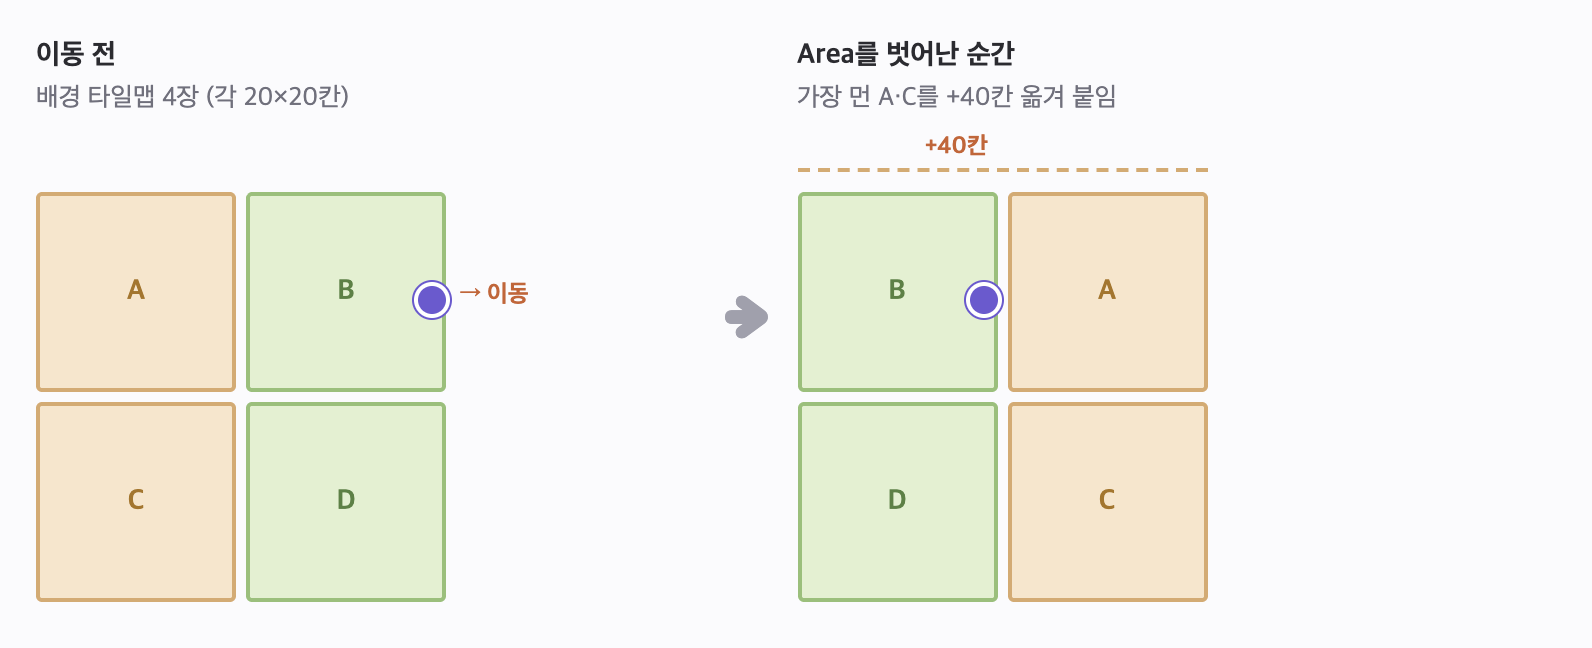
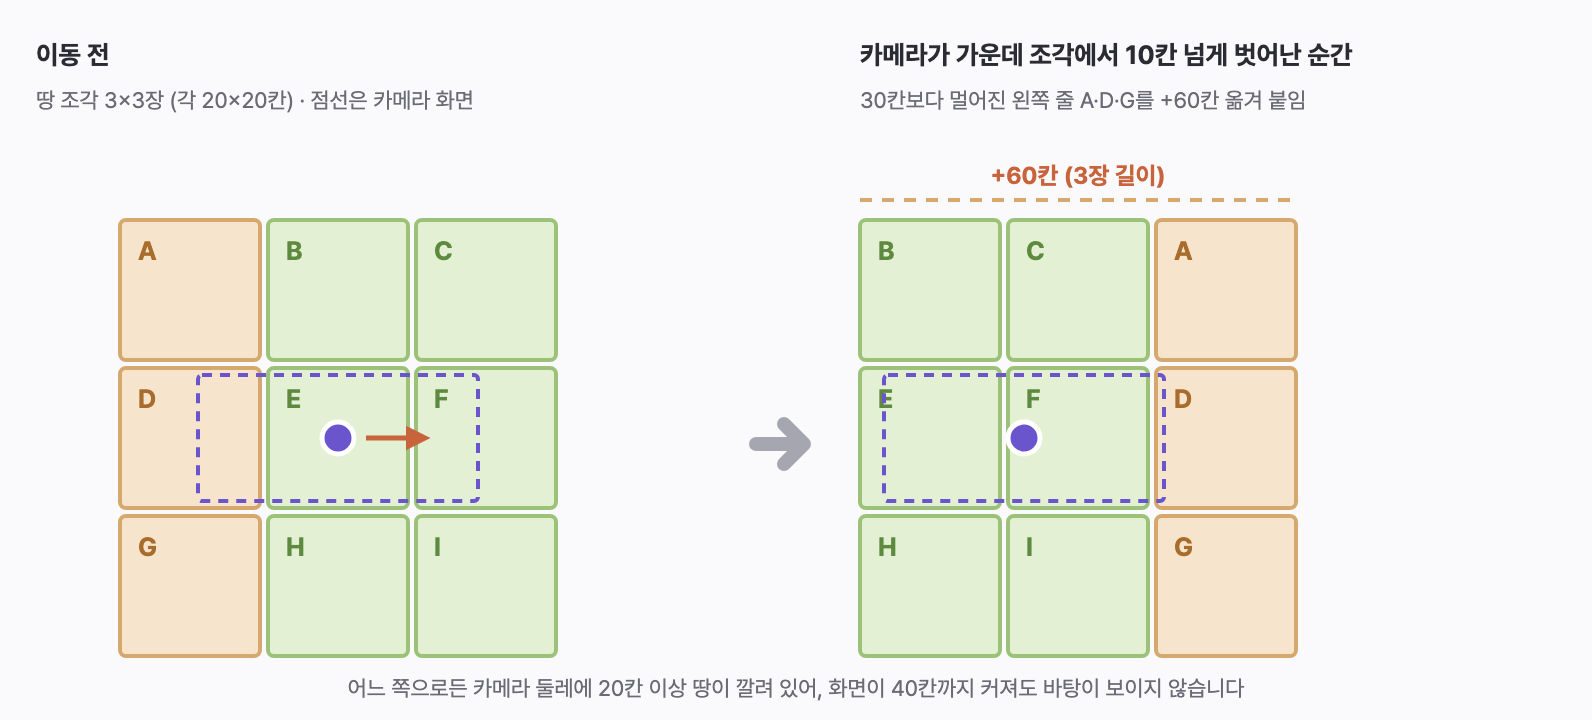
Describe the 3x3 endless ground in the README

Changed region(s): [[0.0, 0.1852, 0.831, 0.9877], [0.4925, 0.0617, 0.8618, 0.1852], [0.0, 0.0617, 0.3078, 0.1852]]

diff --git a/README.md b/README.md
@@ -153,28 +153,27 @@ PC(키보드)와 휴대폰·태블릿(화면 조이스틱·버튼) 모두에서 
 
 ![무한 맵](docs/tech-infinite.png)
 
-배경으로 쓰는 4개의 타일맵(각 20×20칸)이 플레이어를 따라다닙니다. 각 타일맵에는 `Area` 트리거가 달려 있고, 플레이어가 한 덩어리의 경계를 벗어나는 순간 가장 먼 덩어리를 진행 방향 쪽으로 40칸 옮겨 붙입니다.
+바닥 타일맵을 20×20칸 조각으로 나눠 가로·세로 3장씩(3×3) 깔고, 카메라에서 반 판(30칸)보다 멀어진 조각을 반대편 끝으로 60칸(3장 길이) 옮겨 붙입니다. 씬에는 2×2장만 두고, 나머지 5장은 시작할 때 복사해 채웁니다.
 
 ```csharp
-// Reposition.cs — 경계를 벗어난 순간, 가장 먼 타일맵을 진행 방향으로 옮긴다
-private void OnTriggerExit2D(Collider2D collision)
+// Reposition.cs — 카메라에서 30칸보다 멀어진 조각을 60칸 단위로 반대편에 붙인다
+public const float pieceSize = 20f;
+private const float span = pieceSize * 3;           // 3장을 이은 길이: 조각이 옮겨 가는 거리
+public const float coveredView = span - pieceSize;   // 땅이 빈틈없이 덮는 화면 크기 (40칸)
+
+private void LateUpdate()
 {
-    if (!collision.CompareTag("Area")) return;
-
-    Vector3 playerPos = GameManager.instance.player.transform.position;
-    float diffX = Mathf.Abs(playerPos.x - transform.position.x);
-    float diffY = Mathf.Abs(playerPos.y - transform.position.y);
-
-    Vector3 playerDir = GameManager.instance.player.inputVector;
-    float dirX = playerDir.x < 0 ? -1 : 1;
-    float dirY = playerDir.y < 0 ? -1 : 1;
-
-    if (diffX > diffY)      transform.Translate(Vector3.right * dirX * 40); // 가로로 더 멀면 좌우로
-    else if (diffX < diffY) transform.Translate(Vector3.up    * dirY * 40); // 세로로 더 멀면 위아래로
+    Vector3 offset = transform.position - Camera.main.transform.position;
+    float shiftX = Mathf.Round(offset.x / span) * span;
+    float shiftY = Mathf.Round(offset.y / span) * span;
+    if (shiftX != 0f || shiftY != 0f)
+        transform.position -= new Vector3(shiftX, shiftY, 0f);
 }
 ```
 
-플레이어와의 거리(`diffX`·`diffY`)로 **어느 축으로** 옮길지, 입력 방향(`inputVector`)으로 **어느 쪽으로** 옮길지 정합니다. 타일맵 4장만 돌려쓰므로 맵이 아무리 넓어져도 비용이 늘지 않습니다. 대신 맵이 움직여도 플레이어의 좌표는 계속 커지므로, 그 위에 올리는 것들은 모두 **세계 좌표 기준**으로 계산합니다.
+트리거나 입력 방향을 보지 않고 **카메라와의 거리만으로** 옮기므로, 대각선으로 움직이거나 순간이동해도 어긋나지 않습니다. 3×3장이면 카메라 둘레 어느 쪽으로든 20칸 이상 땅이 깔려 있어 화면이 40칸까지 커져도 바탕이 보이지 않고, 그보다 넓은 화면에서는 `CameraViewLimit`이 Pixel Perfect Camera의 배율을 올려 보이는 범위를 40칸 안으로 줄입니다. 꽃·새싹을 다루는 스크립트는 `Reposition.WithCopies`로 복사한 조각까지 함께 다룹니다.
+
+조각 9장만 돌려쓰므로 맵이 아무리 넓어져도 비용이 늘지 않습니다. 대신 맵이 움직여도 플레이어의 좌표는 계속 커지므로, 그 위에 올리는 것들은 모두 **세계 좌표 기준**으로 계산합니다.
 
 ### 2. 절차적 지형 생성 (`WildTerrain`)
 
